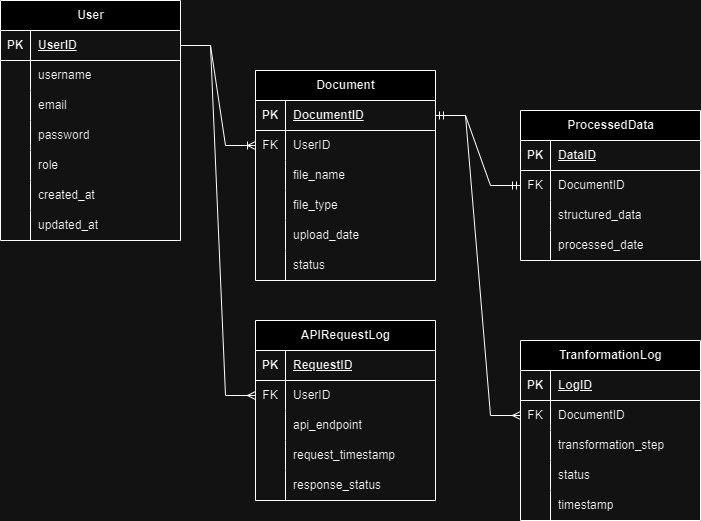
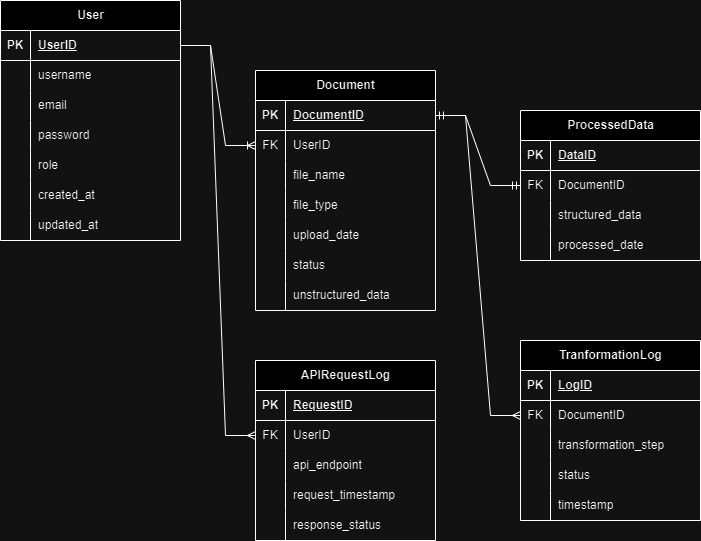
added unstructured_data in documents model

diff --git a/core/models.py b/core/models.py
@@ -49,6 +49,7 @@ class Document(models.Model):
     file_name = models.CharField(max_length=255)
     file_type = models.CharField(max_length=50)
     upload_date = models.DateTimeField(auto_now_add=True)
+    unstructured_data = models.JSONField()
     status = models.CharField(max_length=50, default='pending')
 
     def __str__(self):
